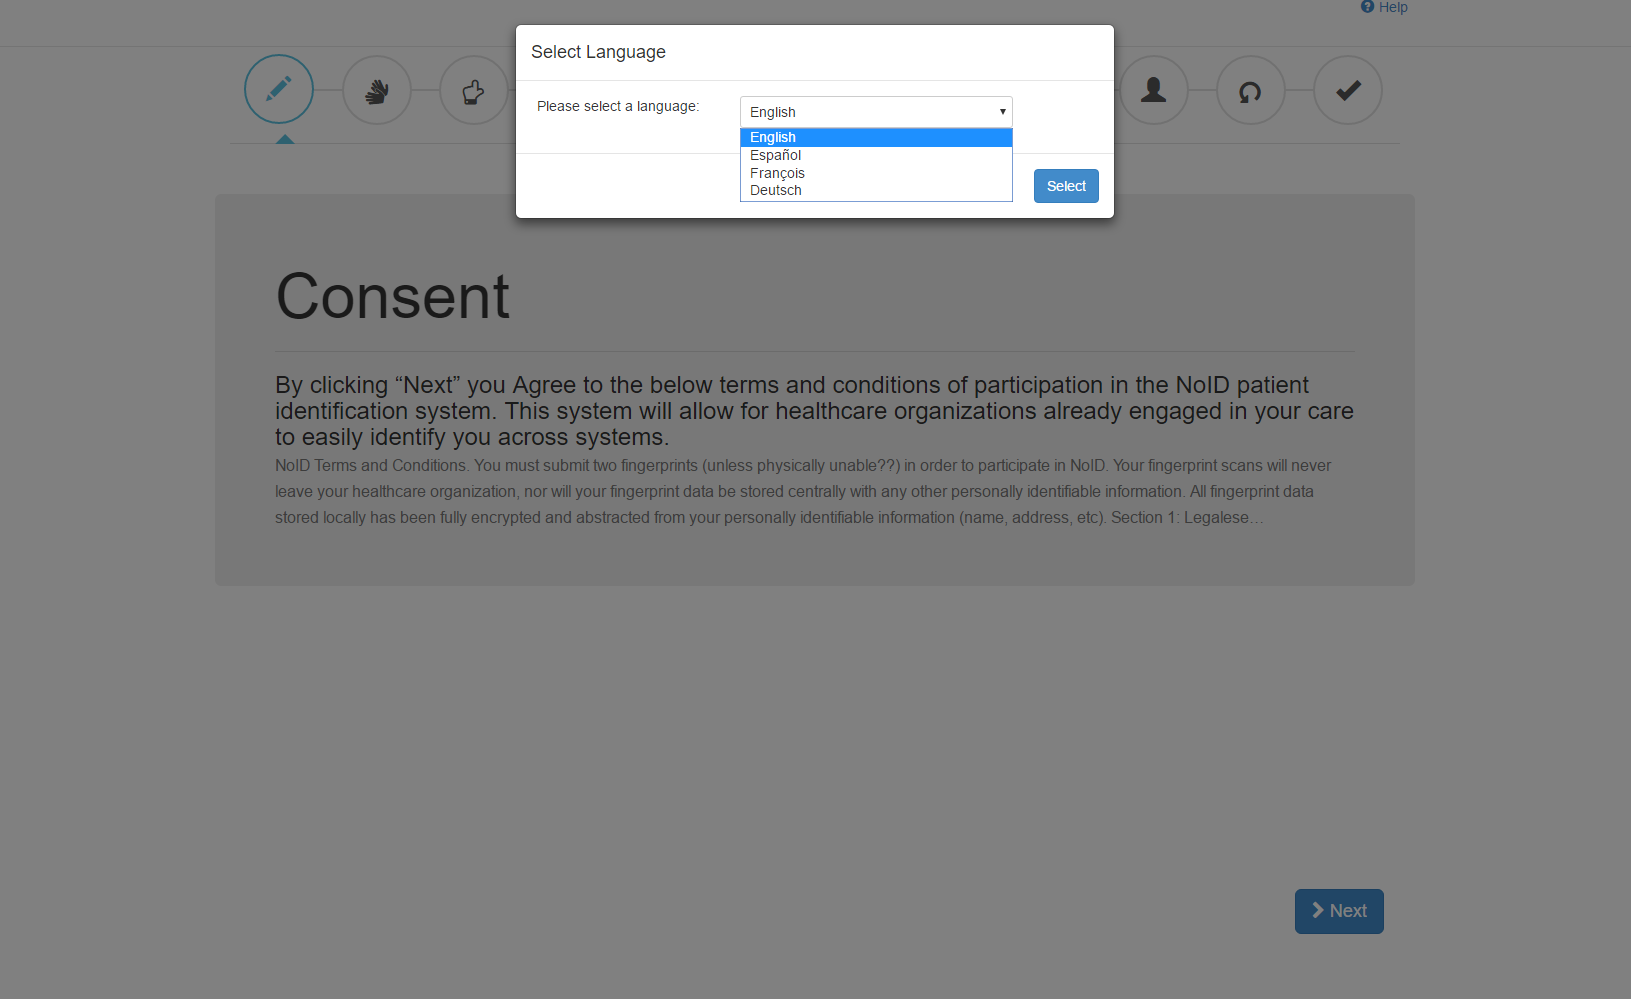
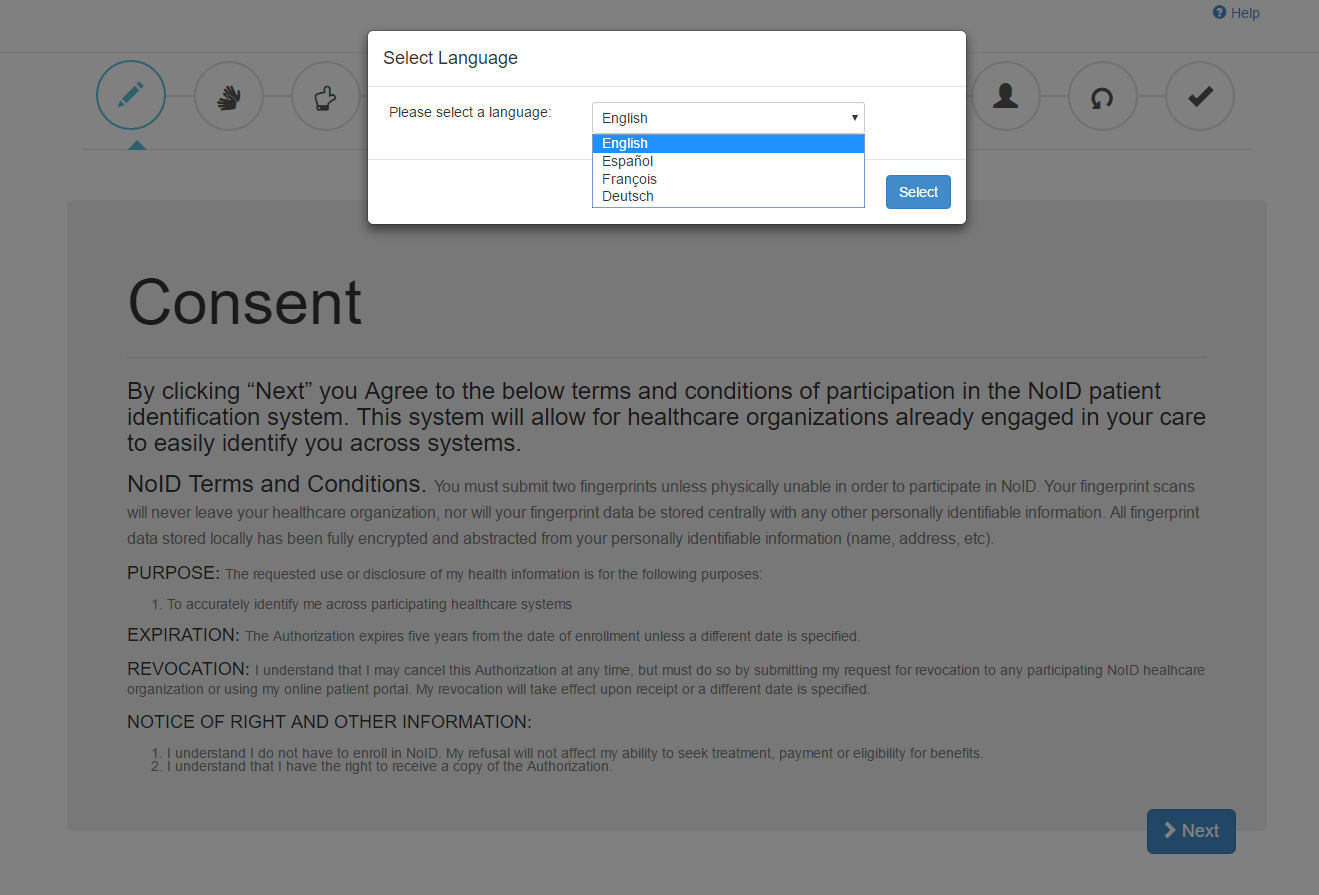
[UI] Tweaks to enrollment consent style/formating

diff --git a/source/noid/noid.browser/enrollment.html b/source/noid/noid.browser/enrollment.html
@@ -138,18 +138,23 @@
                                             </h3>
                                             <p></p>
                                             <h4>PURPOSE: <small>The requested use or disclosure of my health information is for the following purposes:
+                                                    <p></p>
                                                     <ol>
                                                         <li>To accurately identify me across participating healthcare systems</li>
                                                     </ol>
                                                 </small>
                                             </h4>
+                                            <p></p>
                                             <h4>EXPIRATION: <small>The Authorization expires five years from the date of enrollment unless a different date is specified.</small>
                                             </h4>
+                                            <p></p>
                                             <h4>REVOCATION: <small>I understand that I may cancel this Authorization at any time, but must do so by submitting my request 
                                                 for revocation to any participating NoID healhcare organization or using my online patient portal.  My revocation will
                                                 take effect upon receipt or a different date is specified.</small>
-                                                <p></p>
-                                                NOTICE OF RIGHT AND OTHER INFORMATION: <small>
+                                            </h4>
+                                            <p></p>
+                                            <h4>NOTICE OF RIGHT AND OTHER INFORMATION: <small>
+                                                    <p></p>
                                                     <ol>
                                                         <li>I understand I do not have to enroll in NoID.  My refusal will not affect my ability to seek treatment, payment or eligibility for benefits.</li>
                                                         <li>I understand that I have the right to receive a copy of the Authorization.</li>
